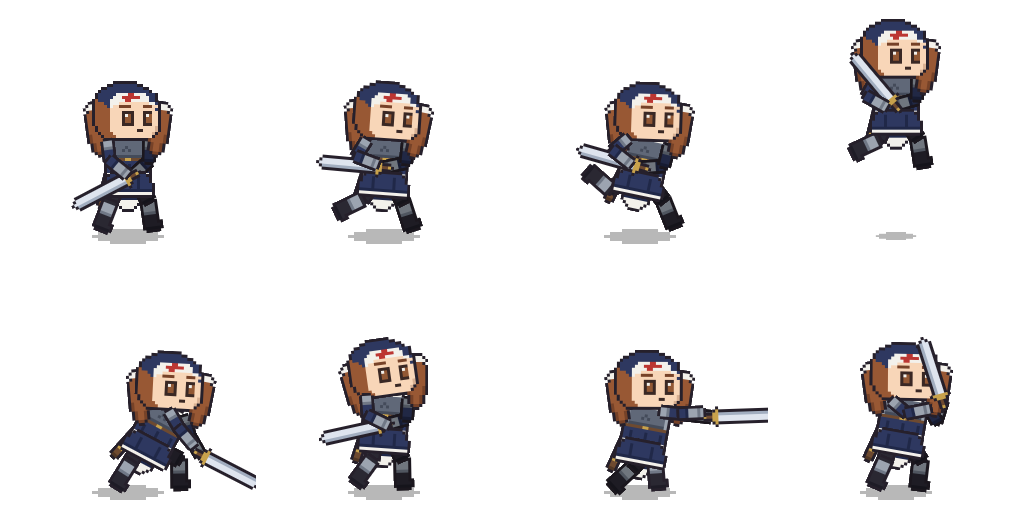
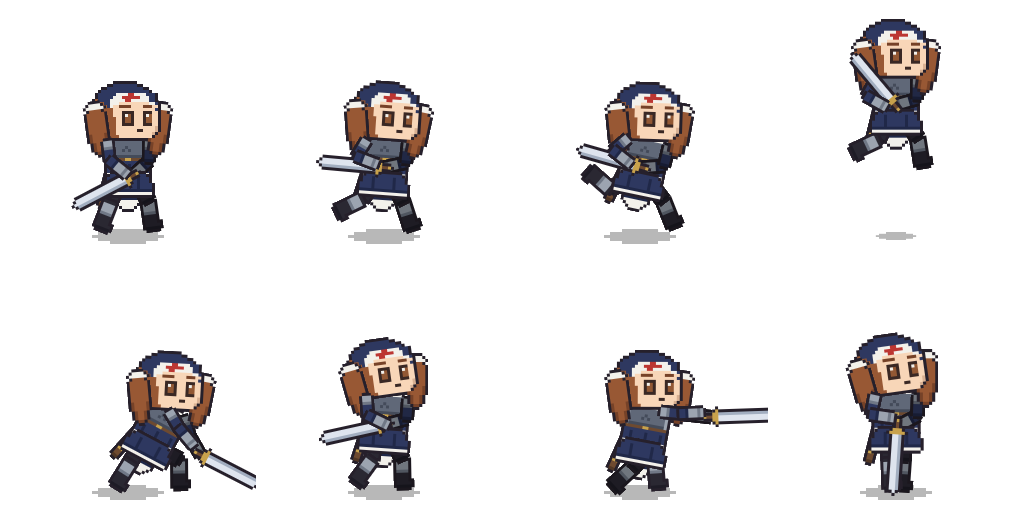
Hang Elara's trailing lock in front of the face
The side hair was widened over the cheek in the head drawing, but the
change that reads is the layer order: the near twin-tail moves in front
of the head, so it falls over the cheek and the shoulder the way long
hair does. Behind the head it only peeked out at the silhouette's edge
and looked like part of it. The far tail stays behind.

diff --git a/examples/state-editor/knight-nun/gen/gen.go b/examples/state-editor/knight-nun/gen/gen.go
@@ -72,16 +72,16 @@ var headArt = []string{
 	"OHNNNNWWWWWRRWWWWWWNNO..",
 	"OHHHNNWWWPPPPPPPPPPWWNO.",
 	"OHHHHNWPPhhhhPPPPhhhPPO.",
-	"OHHHHHPPPPPPPPPPPPPPPNO.",
-	"OHHHHHPPPPeeeePPPeeePPO.",
-	"OHHHHHPPPPeWEePPPeWEPPO.",
-	"OHHHHHPPPPeEEePPPeEEPPO.",
-	"OHHHHHPPPPeEEePPPeEEPPO.",
-	"OHHHHHPPPPeeeePPPeeePPO.",
-	".OHHHHPPPPPPPPPPPPPPPpO.",
-	".OHHHHPPPPPPPPPeePPPPpO.",
-	"..OHHHHPPPPPPPPPPPPPpO..",
-	"...OHHHHPPPPPPPPPPPPO...",
+	"OHHHHHHPPPPPPPPPPPPPPNO.",
+	"OHHHHHHPPPeeeePPPeeePPO.",
+	"OHHHHHHPPPeWEePPPeWEPPO.",
+	"OHHHHHHHPPeEEePPPeEEPPO.",
+	"OHHHHHHHPPeEEePPPeEEPPO.",
+	"OHHHHHHHPPeeeePPPeeePPO.",
+	".OHHHHHHPPPPPPPPPPPPPpO.",
+	".OHHHHHHPPPPPPPeePPPPpO.",
+	"..OHHHHHPPPPPPPPPPPPpO..",
+	"...OHHHHHPPPPPPPPPPPO...",
 	"....OOOOOOOOOOOOOO......",
 }
 

diff --git a/examples/state-editor/knight-nun/README.md b/examples/state-editor/knight-nun/README.md
@@ -41,6 +41,11 @@ existing part, because they have to move independently of it:
 | scabbard | 12x51 | (6,4) | body | (8,30) | rides the trailing hip, behind the torso |
 | tail-near / tail-far | 24x57 | (12,4) | head | (2,24) / (70,24) | the twin-tails follow the HEAD, not the body, and mirror with it on a turn |
 
+The two tails sit on opposite sides of the head in the layer order:
+tail-far behind it, tail-near in front, so the trailing lock falls over
+the cheek and the shoulder the way long hair does. Behind the head it
+just peeked out at the silhouette's edge and read as part of it.
+
 Each is parented to the part it hangs off and given a static transform.
 Parenting alone carries them through every clip, which is why adding
 them needed no new keyframes: the skirt tips with the hips, the tails
